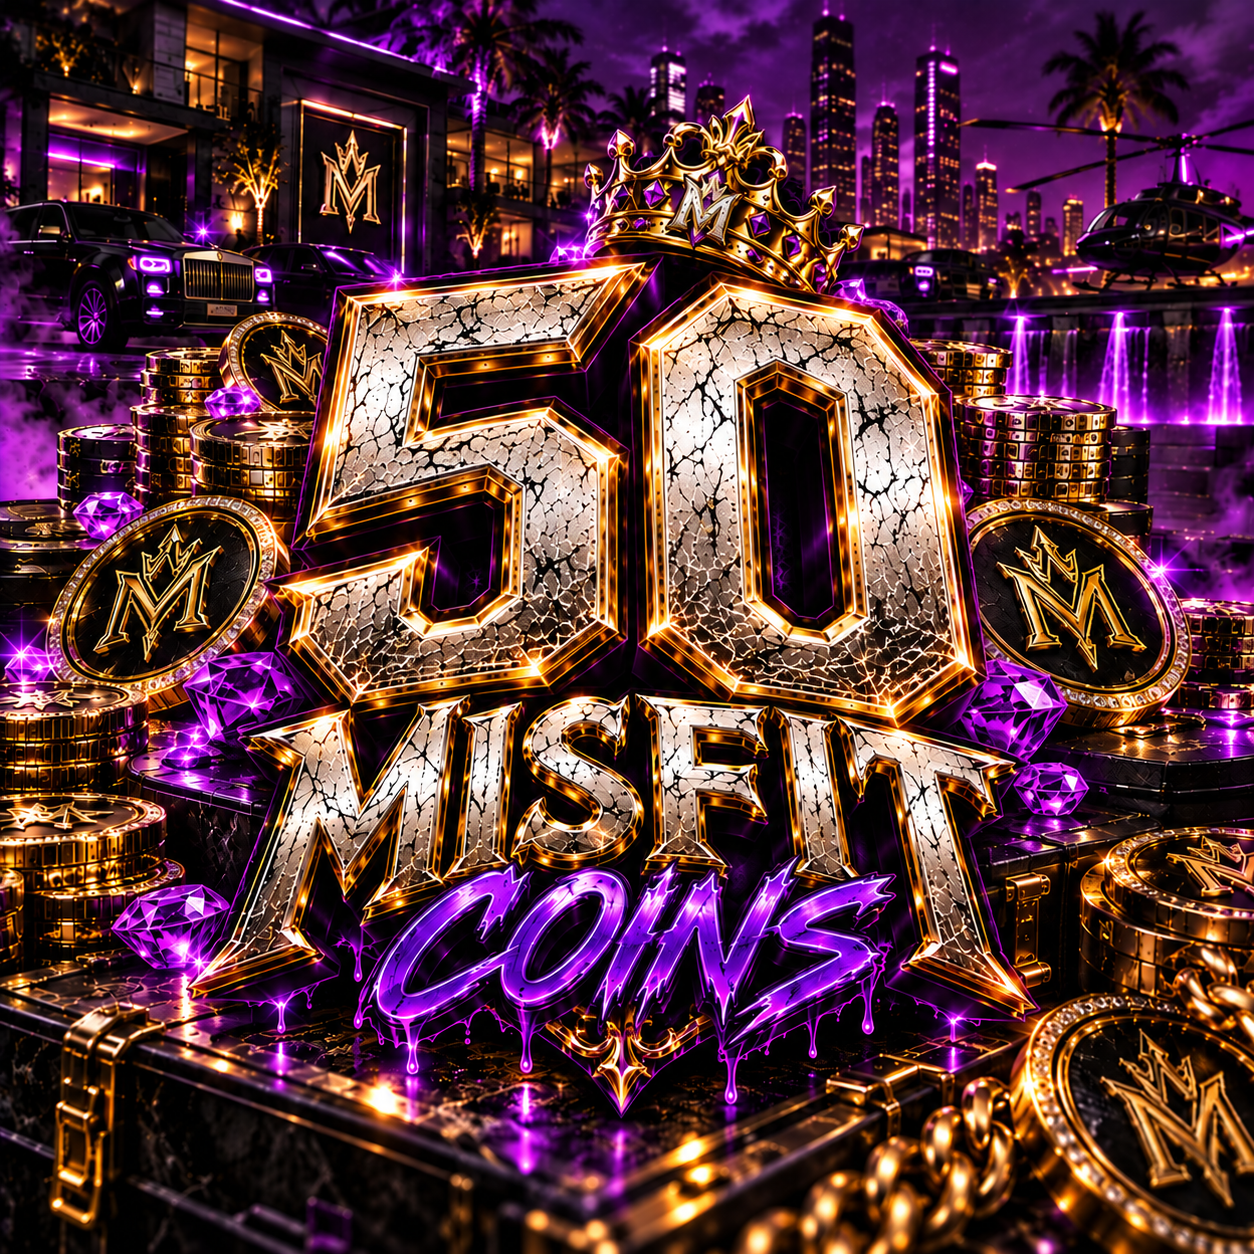
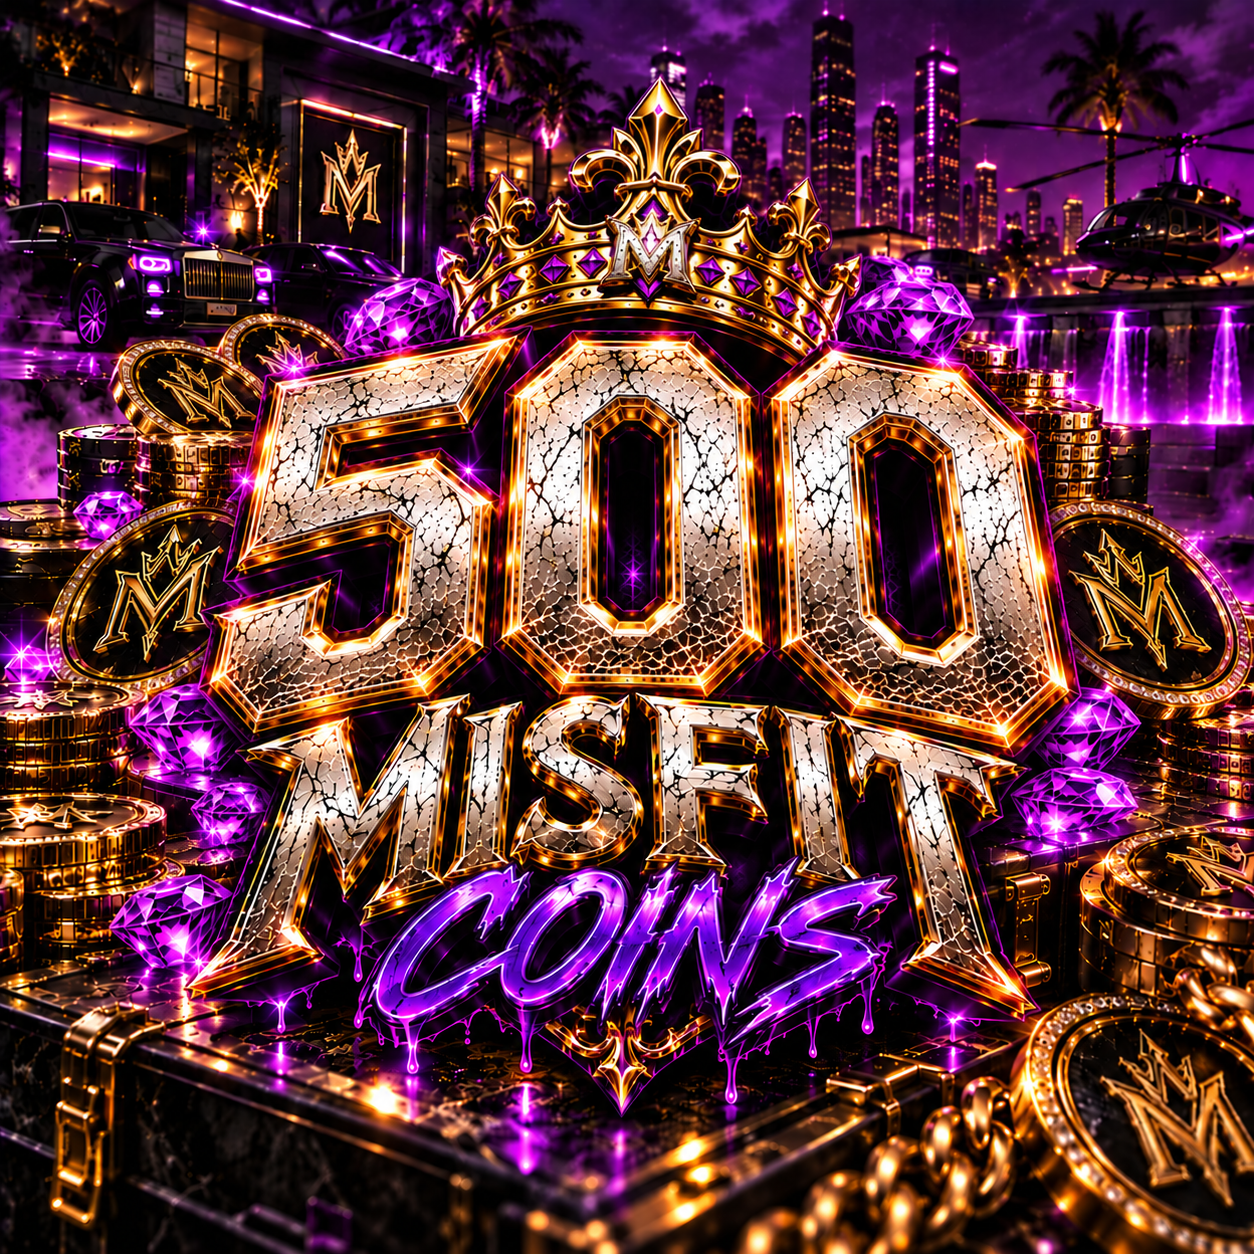
Store art: fix swapped 50/500 coin images, restyle Drug Plug card
- coins/50.png and coins/500.png had each other's artwork; swapped back.
- New Drug Plug card in the same style as Gang/Family/Business/MLO:
  old lettering removed from the background, purple grade, chrome
  graffiti title, gold dripping PACKAGE, the shared gold crown and the
  purple frame.

Claude-Session: https://claude.ai/code/session_01D6JCtb12CajPrT5hAAmM4L

diff --git a/lib/products.js b/lib/products.js
@@ -3,7 +3,7 @@ export const products=[
 {slug:'family',category:'ORGANIZATIONS',title:'Family Package',price:'$225',image:'/images/packages/family.jpg',short:'Create a family legacy with approved housing, branding and organization features.',features:['One approved family house','One family chain','One family clothing piece','Official family recognition','Family roles and permissions'],delivery:'Estimated setup: 24–48 hours after required information is provided.',terms:['Housing, branding and content are subject to approval and availability.','Family status remains subject to city rules and activity standards.','No package guarantees competitive dominance, income or rule exemptions.']},
 {slug:'business',category:'BUSINESS',title:'Business Package',price:'$280',image:'/images/packages/business.jpg',imageFit:'contain',short:'Own and operate an approved business with defined features and employee management.',features:['One approved business organization','Business setup and management access','Employee recruitment and management','Applicable business features and resources','Staff setup assistance'],delivery:'Estimated setup: 24–48 hours after the business selection is approved.',terms:['Locations, interiors and features depend on availability.','Names, branding and activities are subject to staff approval.','No guaranteed financial outcome, territory, advantage or exemption from city rules.','Business status may be reviewed for inactivity or serious/repeated rule violations.']},
 {slug:'mlo',category:'PROPERTY',title:'MLO Package',price:'$250',image:'/images/packages/mlo.jpg',short:'Explore approved property options with clearly listed interiors and included features.',features:['Approved MLO selection','Property setup','Extra storage where included','Eligible elevator setup','Weapon repair bench where listed'],delivery:'Estimated setup: 24–48 hours after an available property is selected.',terms:['Selection is limited to approved, currently available MLOs.','Features vary by the exact property selected and will be listed before fulfillment.','Server updates or balance changes may require feature adjustments.']},
-{slug:'drug-plug',category:'CRIMINAL RP',title:'Drug Plug Package',price:'COMING SOON',image:'/images/packages/drug-plug-final.webp',short:'A defined criminal-roleplay package built around an approved in-city drug operation.',features:['Approved drug operation concept','Defined product and distribution setup','Roleplay-focused progression','Staff setup assistance','Exact deliverables listed before release'],delivery:'Release details will be posted when this package is finalized.',terms:['This package is not available for checkout yet.','Exact mechanics and deliverables will be defined before release.','All content remains subject to city balance, lore and roleplay standards.']}
+{slug:'drug-plug',category:'CRIMINAL RP',title:'Drug Plug Package',price:'COMING SOON',image:'/images/packages/drug-plug-card.jpg',short:'A defined criminal-roleplay package built around an approved in-city drug operation.',features:['Approved drug operation concept','Defined product and distribution setup','Roleplay-focused progression','Staff setup assistance','Exact deliverables listed before release'],delivery:'Release details will be posted when this package is finalized.',terms:['This package is not available for checkout yet.','Exact mechanics and deliverables will be defined before release.','All content remains subject to city balance, lore and roleplay standards.']}
 ];
 export const coins=[
 {slug:'10-coins',category:'MISFIT COINS',title:'10 Misfit Coins',price:'$12.50',image:'/images/coins/10.png',short:'10 Misfit Coins credited to your Project Misfits v2 account.',features:['10 Misfit Coins','Account delivery','Eligible PMv2 purchases'],delivery:'Account credit after transaction verification.',terms:['Coins may only be used for eligible Project Misfits v2 purchases.']},
